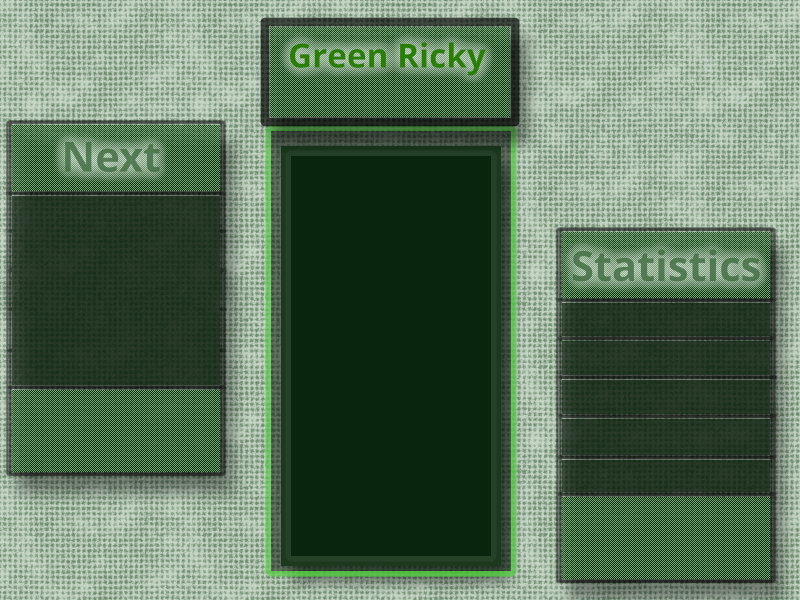
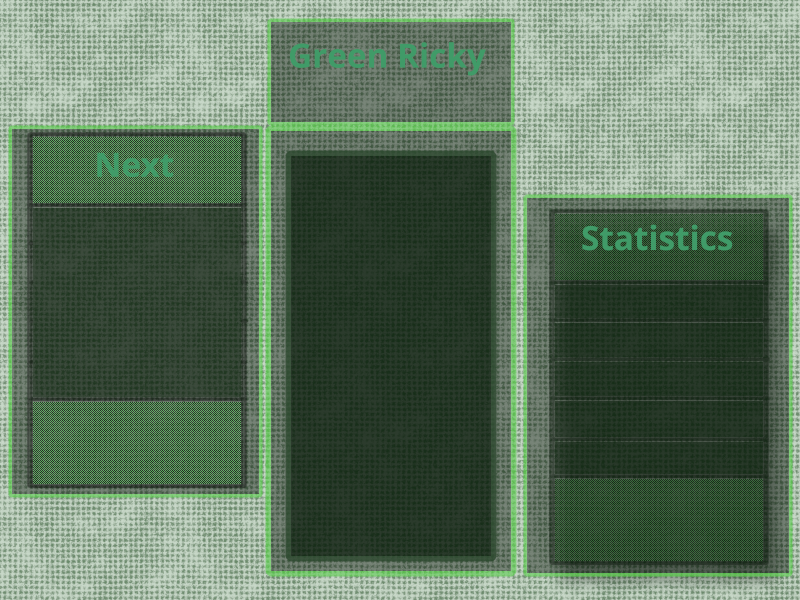
new screen mask.

diff --git a/source/Impl/Game/M_Game_Main.c b/source/Impl/Game/M_Game_Main.c
@@ -865,12 +865,12 @@ static void cg_render_next_piece() {
 /* simply renders the current statistics to screen. */
 static void cg_render_stats() {
 	/* rows */
-	sdla_printf(580, 310, 5, "Rows destroyed : %d", cg_stats.rows_destroyed);
+	sdla_printf(DRAW_STATISTICS_START_X, DRAW_STATISTICS_START_Y, 5, "Rows destroyed : %d", cg_stats.rows_destroyed);
 	/* rows */
-	sdla_printf(580, 350, 5, "Pieces landed  : %d",
+	sdla_printf(DRAW_STATISTICS_START_X, DRAW_STATISTICS_START_Y+STATISTICS_LINE_SPACING, 5, "Pieces landed  : %d",
 			cg_stats.count_pieces_landed);
 	/* score */
-	sdla_printf(580, 390, 5, "Total Score    : %d", cg_stats.score);
+	sdla_printf(DRAW_STATISTICS_START_X, DRAW_STATISTICS_START_Y+2*STATISTICS_LINE_SPACING, 5, "Total Score    : %d", cg_stats.score);
 }
 
 /* Here, the state of the core game will be drawn to screen */

diff --git a/source/Includes/D_Common.h b/source/Includes/D_Common.h
@@ -45,8 +45,16 @@
 // was 163 in draft 10
 #define DRAW_START_Y 156
 
-#define NEXT_PIECE_X 85
-#define NEXT_PIECE_Y 250
+#define DRAW_STATISTICS_START_X 567
+#define DRAW_STATISTICS_START_Y 295
+#define STATISTICS_LINE_SPACING 40
+
+/* was 85 in draft 11 */
+#define NEXT_PIECE_X 96
+/* was 250 in draft 11 */
+#define NEXT_PIECE_Y 254
+
+
 
 /* where is no bricket... > FREE = bricket */
 #define FREE 0
